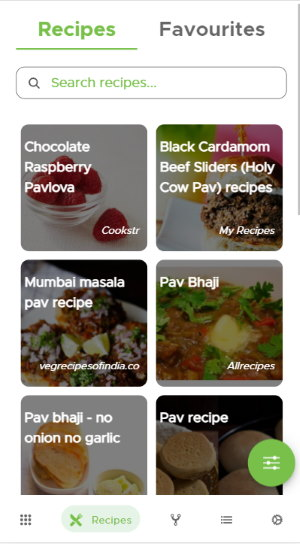
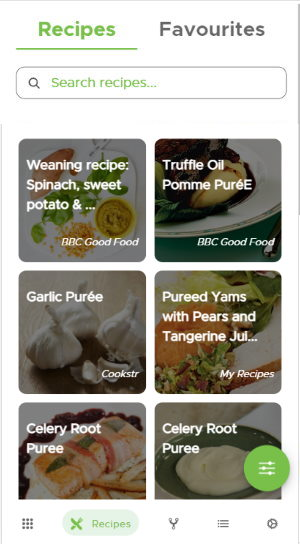
hiding slider

diff --git a/src/app/home/home.component.html b/src/app/home/home.component.html
@@ -1,9 +1,9 @@
 <div class="fixedtop" >
 <div class="row">
-  <div class="col-12">
+  <!--<div class="col-12">
     <app-sliderpanel></app-sliderpanel>
-  </div>
- <section class="home-sec aboutus-sec"  style="padding-left:15px; padding-right:15px;" >
+  </div>-->
+ <section class="home-sec aboutus-sec"  style="padding-left:15px; padding-right:15px; padding-bottom:0px;" >
    <div class="container col-12">
       <div class="home-sec-box">
          <div class="text-side">
@@ -27,21 +27,33 @@
                   </div>
               </div>
          </div>
-         <!-- <div class="image-side  wow zoomIn animated desktoponly hidden-xs" style=" justify-content: center;   align-items: center; visibility: visible; animation-name: zoomIn; transform: rotate(5deg);" >
-            <div class="home-sec-image" style="border-width: 8px;
+          <div class="image-side  wow zoomIn animated desktoponly hidden-xs" style=" justify-content: center;   align-items: center; visibility: visible; animation-name: zoomIn; transform: rotate(5deg);" >
+            <div class="home-sec-image" style="border-width: 8px;     width: 300px;
+            margin: 30px auto;
     border-style: solid;
     border-color: #000;
     border-radius: 15px;
     background-color: #fff;
     box-shadow: 0px 15px 20px -10px rgb(0 0 0 / 15%), 0px 1px 4px -2px rgb(0 0 0 / 40%);">
-              <app-sliderpanel></app-sliderpanel>
+             
+             
+             <ngb-carousel *ngIf="sliderList2" style="width:100%; min-height: 210px;display: none">
+    <ng-template ngbSlide *ngFor="let item of sliderList2; let i=index">
+      <div class="picsum-img-wrapper" style='text-align:center;'>
+        <img *ngIf="!isMobile" class="desktoponly" [src]="item.image" alt="{{item.title}}"  style="width:100%;min-height: 200px;">
+       <img *ngIf="isMobile" class="mobileonly" [src]="item.image_small" alt="{{item.title}}"  style="width:100%;min-height: 200px;">
+      </div>
+         </ng-template>
+
+  </ngb-carousel>
+
             </div>
-         </div> -->
-         <div class="image-side  wow zoomIn animated desktoponly hidden-xs" style=" justify-content: center;   align-items: center; visibility: visible; " >
+         </div> 
+         <!--<div class="image-side  wow zoomIn animated desktoponly hidden-xs" style=" justify-content: center;   align-items: center; visibility: visible; " >
             <div class="home-sec-image">
             <img src="../assets/images/home1.png"/>
             </div>
-         </div>
+         </div>-->
       </div>
    </div>
    </section>
@@ -81,7 +93,7 @@
 <section class="home-sec" style="background:#fff;margin-bottom:0px">
    <div class="container">
       <div class="col-12">
-        <div class="" style="padding-top:0px;">
+        <div class="" style="padding-top:10px;">
          <span class="heading-small-1">How to start?</span>
                   <h2  class="heading-big-1" style="">Easy steps</h2>
            <div class="row secL">

diff --git a/src/app/planner/plancreatem/plancreatem.component.html b/src/app/planner/plancreatem/plancreatem.component.html
@@ -187,7 +187,7 @@
 
       </div>
       <div class="row">
-        <div class="col-6 ">
+        <div class="col-4 ">
           <div [ngClass]="filterFlag?'filters active':'filters'">
             <a href="javascript:void(0)" (click)="setFilters()">
                 <i class="fa fa-sliders" aria-hidden="true"></i> 
@@ -197,13 +197,13 @@
         </div>
         <div class="col-4 paddinglr0">
           <div class='filters'>
-            <a href="javascript:void(0)" (click)="clearFilters()">
+            <a href="javascript:void(0)" (click)="loadMyRecipes(modalText)">
                 <i class="fa fa-times" aria-hidden="true"></i>
               My Recipes
             </a>
           </div>
         </div>    
-        <div class="col-6 ">
+        <div class="col-4 ">
           <div class='filters'>
             <a href="javascript:void(0)" (click)="clearFilters()">
                 <i class="fa fa-times" aria-hidden="true"></i>
@@ -364,22 +364,7 @@
                   </div>
               </div>
 
-               <!-- <div *ngFor="let mItem of filters['minerals']['data']; let m = index;">
-                  <div style="display:flex; align-items:center" size="5" >
-                    <input type="checkbox"  class="checkbox marginr10" name="filtersM[]" [(ngModel)]="mItem.selected"> <span (click)="selectDeselect(mItem)"  class="filteritem">{{mItem.name.label}}</span>
-                  </div>
-                  <div *ngIf="mItem.selected"  size="3" >
-                    <input class="mineral-input" type='text' name="minerals_{{m}}_min" [(ngModel)]="mItem.min" placeholder="min" />
-                    <span class="maxmin">{{formatVal(mItem.t_min, 0)}}</span>
-                  </div>
-                  <div  *ngIf="mItem.selected"  size="3" >
-                    <input class="mineral-input" type='text' name="minerals_{{m}}_max" [(ngModel)]="mItem.max" placeholder="max" />
-                    <span class="maxmin">{{formatVal(mItem.t_max, 0)}}</span>
-                  </div>
-                  <div style="padding-left: 0px; padding-right: 0px;" *ngIf="mItem.selected"  size="1" >
-                  {{mItem.name.unit}}
-                  </div>
-                </div>-->
+          
               </ng-container>
             </div>
          
@@ -402,7 +387,7 @@
                 <!--<span class="small_text"><span name="flame-outline"></span> {{item.calories}}</span> <br> -->
               </div>
             </div>
-          <
+         
         </div>
       
       

diff --git a/src/app/home/home.component.scss b/src/app/home/home.component.scss
@@ -567,3 +567,143 @@ a {
     padding:10px;
     height:100%; */
 }
+
+
+
+
+
+.carousel-item {
+  display: block !important;
+  z-index: 1;
+  position: absolute;
+  opacity: 0;
+  transition: opacity 1.5s ease-in-out, visibility 1s;
+  visibility: hidden;
+}
+/*.carousel-item.active {
+  position: relative;
+  opacity: 1;        
+  transition: opacity 1.5s ease-in-out, visibility 1s;
+  visibility: visible;
+  
+}*/
+
+
+.carousel-item.active {
+    -webkit-animation: flip-in-ver-left 0.5s cubic-bezier(0.250, 0.460, 0.450, 0.940) both;
+            animation: flip-in-ver-left 0.5s cubic-bezier(0.250, 0.460, 0.450, 0.940) both;
+}
+
+.read-more-bordered:hover {
+   color: #FFF !important;
+}
+
+ @-webkit-keyframes flip-in-ver-left {
+    0% {
+      -webkit-transform: rotateY(80deg);
+              transform: rotateY(80deg);
+      opacity: 0;
+    }
+    100% {
+      -webkit-transform: rotateY(0);
+              transform: rotateY(0);
+      opacity: 1;
+    }
+  }
+  @keyframes flip-in-ver-left {
+    0% {
+      -webkit-transform: rotateY(80deg);
+              transform: rotateY(80deg);
+      opacity: 0;
+    }
+    100% {
+      -webkit-transform: rotateY(0);
+              transform: rotateY(0);
+      opacity: 1;
+    }
+  }
+
+  .carousel-caption
+  {
+    background: #ffffff;
+    padding: 16px;
+    width: 410px;
+ left:60%;
+  }
+
+.slide-detail-inner {
+    border: 1px solid #e4d9d1;
+    padding: 35px;
+    min-height:374px;
+    color:$text-gray;
+}
+
+.slide-detail-inner h2 {
+    font-size: 30px;
+    font-family: 'Lato', sans-serif;
+    font-weight: 900;
+    font-style: normal;
+    text-transform: uppercase;
+    margin-bottom: 20px;
+}
+.slide-detail-inner p {
+font-family: 'Lato', sans-serif;
+}
+
+a:hover {
+  color:var(--green);
+}
+
+.desktoponly
+{
+  display:block;
+}
+.mobileonly
+{
+  display:none;
+}
+@media only screen and (max-width: 767px) {
+  .slide-detail-inner
+  {
+    min-height:100px;
+    padding:5px;
+    border:0px;
+  }
+  .carousel-caption
+  {
+    background: transparent; 
+      padding: 16px;
+      width: 100%;
+      left: 0%;
+    right: 0%;
+    bottom: 0px;
+    top: 0; 
+  }
+
+  .slide-detail-inner p
+  {
+   display:none; 
+  }
+
+  .slide-detail-inner h2
+  {
+    font-size: 20px;
+  }
+
+  .carousel-indicators
+  {
+    display:none;
+  }
+
+
+  .desktoponly
+{
+  display:none;
+}
+.mobileonly
+{
+  display:block;
+}
+}
+
+

diff --git a/src/app/planner/plancreatem/plancreatem.component.ts b/src/app/planner/plancreatem/plancreatem.component.ts
@@ -1629,5 +1629,50 @@ export class PlancreatemComponent implements OnInit {
 		  }
 		  return retVal;
 		}
+
+		loadMyRecipes(prop)
+		{
+			console.log("in loadmy recipes");
+			this.isItemAvailable = false;
+			this.planDay['selected'] = prop;
+			var params = [];
+			params["query"] = "select id, label, image, healthLabels, dietLabels, calories, totalNutrients, digest from recipes where created_by = " + this.currentUser["id"];
+			this.isSearching = true;
+			console.log(params);
+			var res =   this.dbService.getDatabyTablebyQuery("recipes", params).subscribe(resData => setTimeout(() => {
+				console.log(resData);
+				if(resData && resData["body"]["length"] > 0)
+				{
+					this.isItemAvailable = true;
+					this.isSearching = false;
+					this.items =  resData["body"];
+				}
+			}));
+
+
+		}
+
+		loadFavourites(prop)
+		{
+			console.log("loadFavourites");
+			this.isItemAvailable = false;
+			this.planDay['selected'] = prop;
+			var params = [];
+			params["query"] = "select id, label, image, healthLabels, dietLabels, calories, totalNutrients, digest from recipes where id in (select recipeid from favourites where userid = " + this.currentUser["id"] + ")" ;
+			this.isSearching = true;
+			console.log(params);
+			var res =   this.dbService.getDatabyTablebyQuery("recipes", params).subscribe(resData => setTimeout(() => {
+				console.log(resData);
+				if(resData && resData["body"]["length"] > 0)
+				{
+					this.isItemAvailable = true;
+					this.isSearching = false;
+					this.items =  resData["body"];
+				}
+			}));
+
+
+		}
+
 }
 		

diff --git a/src/app/home/home.component.ts b/src/app/home/home.component.ts
@@ -6,6 +6,7 @@ import { HelpService } from '../services/help.service';
 import {constants} from "../jsonfiles/constants"
 import { ModalService } from '../shared/modules/modal/modal.service';
 import { DBService } from '../dbservices/db.service';
+import { NgbCarouselConfig } from '@ng-bootstrap/ng-bootstrap';
 @Component({
   selector: 'app-home',
   templateUrl: './home.component.html',
@@ -21,14 +22,26 @@ testimonialsList: Array<any> = [];
 popupforquestions: boolean =false;
 isMobile: boolean = false;
 images: any;
-
+sliderList2: Array<any> = [];
 startpage: any = "signup";
-  constructor(private router: Router, private dbService: DBService,  private modalService: ModalService,  private helpService: HelpService) {
+  constructor(config: NgbCarouselConfig, private router: Router, private dbService: DBService,  private modalService: ModalService,  private helpService: HelpService) {
 	this.labels={"companyName":this.helpService.getConstants("companyName")};
+
+	config.interval = 3000;
+	config.showNavigationArrows = false;
+	 config.showNavigationIndicators = false;
+
 
 	}
 
   	ngOnInit() {
+
+	
+		this.sliderList2.push({"image":"assets/mtc1_s.jpg","image_small":"assets/mtc1_s.jpg",});
+    this.sliderList2.push({"image":"assets/mtc2_s.jpg","image_small":"assets/mtc2_s.jpg",});
+    this.sliderList2.push({"image":"assets/mtc3_s.jpg","image_small":"assets/mtc3_s.jpg",});
+
+
 		  this.startpage = "questionnaire";
 		  this.images = {};
 		  this.images["appstore"]  = "assets/app-store.png"; 

diff --git a/src/app/shared/modules/sliderpanel/sliderpanel.component.html b/src/app/shared/modules/sliderpanel/sliderpanel.component.html
@@ -24,11 +24,11 @@
     </ng-template>
 
   </ngb-carousel>
-  <ngb-carousel *ngIf="sliderList2" style="width:100%; min-height: 210px;display: none">
+  <!-- <ngb-carousel *ngIf="sliderList2" style="width:100%; min-height: 210px;display: none">
     <ng-template ngbSlide *ngFor="let item of sliderList2; let i=index">
       <div class="picsum-img-wrapper" style='text-align:center;'>
         <img *ngIf="!isMobile" class="desktoponly" [src]="item.image" alt="{{item.title}}"  style="width:100%;min-height: 200px;">
-        <!--<img *ngIf="isMobile" class="mobileonly" [src]="item.image_small" alt="{{item.title}}"  style="width:100%;min-height: 200px;">-->
+       <img *ngIf="isMobile" class="mobileonly" [src]="item.image_small" alt="{{item.title}}"  style="width:100%;min-height: 200px;">
       </div>
       <!--<div class="carousel-caption">
         <div class="container custom-container-slide">
@@ -45,6 +45,6 @@
             </div>
         </div>
       </div>-->
-    </ng-template>
+    <!--</ng-template>
 
-  </ngb-carousel>
+  </ngb-carousel>-->

diff --git a/src/app/landing/landing.component.html b/src/app/landing/landing.component.html
@@ -27,7 +27,7 @@
                   <p class="plan-name">{{planStatus[0]["mpname"]}} </p>
                     <!--<p class="plan-tags">{{planStatus[0]["tags"]}} <br/>
                      </p>-->
-                     <div class="mealplan" *ngIf="plan && plan['days'] && plan['days']['length'] > 0">
+                     <div class="mealplan hidden-xs" *ngIf="plan && plan['days'] && plan['days']['length'] > 0">
                         <ul>
                            <ng-container *ngFor="let mtype of mealTypeList; let m = index">
                            <li [ngClass]="getStatus(mtype)?'mealtypetick':'mealtype'" *ngIf="plan['days'][0][mtype] && plan['days'][0][mtype]['label']">
